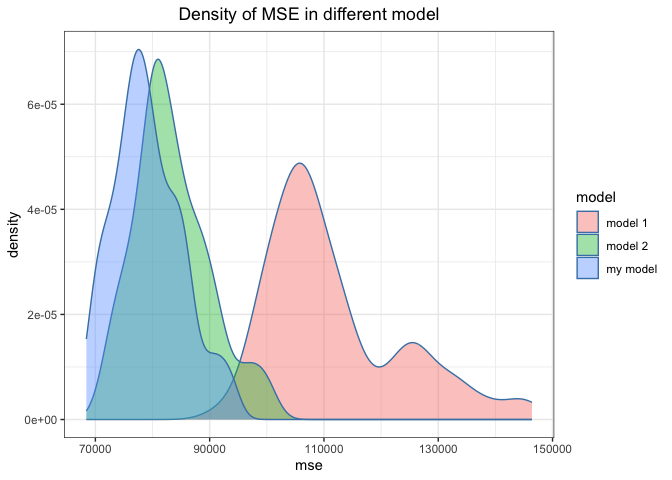
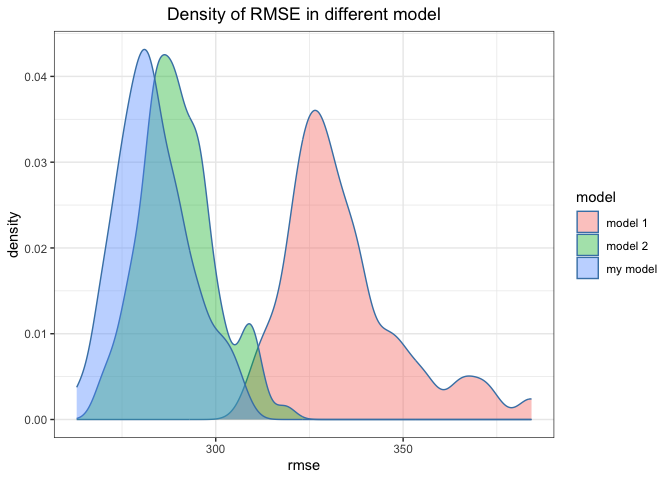
eval model with rmse instead of mse

diff --git a/p8105_hw6_pt2632.md b/p8105_hw6_pt2632.md
@@ -4,6 +4,7 @@ HW6
 
 ``` r
 library(tidyverse)
+library(modelr)
 library(latex2exp)
 ```
 
@@ -212,8 +213,8 @@ ci = function(data){
 
 The 95% confidence interval for $r^2$ is (0.889, 0.94).
 
-The 95% confidence interval for $\log(\beta_1*\beta_2)$ is (-9.041,
--4.535).
+The 95% confidence interval for $\log(\beta_1*\beta_2)$ is (-8.901,
+-4.575).
 
 ## Problem 3
 
@@ -309,20 +310,15 @@ between these Make this comparison in terms of the cross-validated
 prediction error; use crossv_mc and functions in purrr as appropriate.
 
 ``` r
-mse = function(val, pred){ return(mean((val - pred) ^ 2)) }
 model_eval = function(train_df, test_df){
   my_mlr = lm(bwt ~ babysex + bhead + blength + delwt + gaweeks + parity + smoken, data = train_df)
   mlr1 = lm(bwt ~ blength + gaweeks, data = train_df)
   mlr2 = lm(bwt ~ bhead * blength * babysex, data = train_df)
-  eval_df = test_df |>
-    modelr::add_predictions(my_mlr, var = "pred0") |>
-    modelr::add_predictions(mlr1, var = "pred1") |>
-    modelr::add_predictions(mlr2, var = "pred2")
   return(
     tibble(
-      mse0 = mse(eval_df$bwt, eval_df$pred0), 
-      mse1 = mse(eval_df$bwt, eval_df$pred1), 
-      mse2 = mse(eval_df$bwt, eval_df$pred2)
+      rmse0 = rmse(my_mlr, test_df), 
+      rmse1 = rmse(mlr1, test_df), 
+      rmse2 = rmse(mlr2, test_df)
     )
   )
 }
@@ -330,26 +326,26 @@ model_eval = function(train_df, test_df){
 
 ``` r
 times = 100
-mse_df = birth_weight |>
+rmse_df = birth_weight |>
   modelr::crossv_mc(n = times) |>
   mutate(train = map(train, as.tibble), 
          test = map(test, as.tibble), 
          eval_mse = map2(train, test, model_eval)) |>
   unnest(eval_mse) |>
-  select(starts_with("mse"))
+  select(starts_with("rmse"))
 ```
 
 ``` r
-mse_df |>
-  pivot_longer(cols = starts_with("mse"), names_to = "model_slc", values_to = "mse",  names_prefix = "mse") |>
+rmse_df |>
+  pivot_longer(cols = starts_with("rmse"), names_to = "model_slc", values_to = "rmse",  names_prefix = "rmse") |>
   mutate(model = recode(model_slc, 
                         "0" = "my model", 
                         "1" = "model 1", 
                         "2" = "model 2")) |>
-  ggplot(aes(x = mse, fill = model)) +
+  ggplot(aes(x = rmse, fill = model)) +
   geom_density(alpha = .4, adjust = .8, color = "steelblue") +
   labs(
-    title = "Density of MSE in different model"
+    title = "Density of RMSE in different model"
   ) + 
   theme_bw() + 
   theme(plot.title = element_text(hjust = 0.5))
